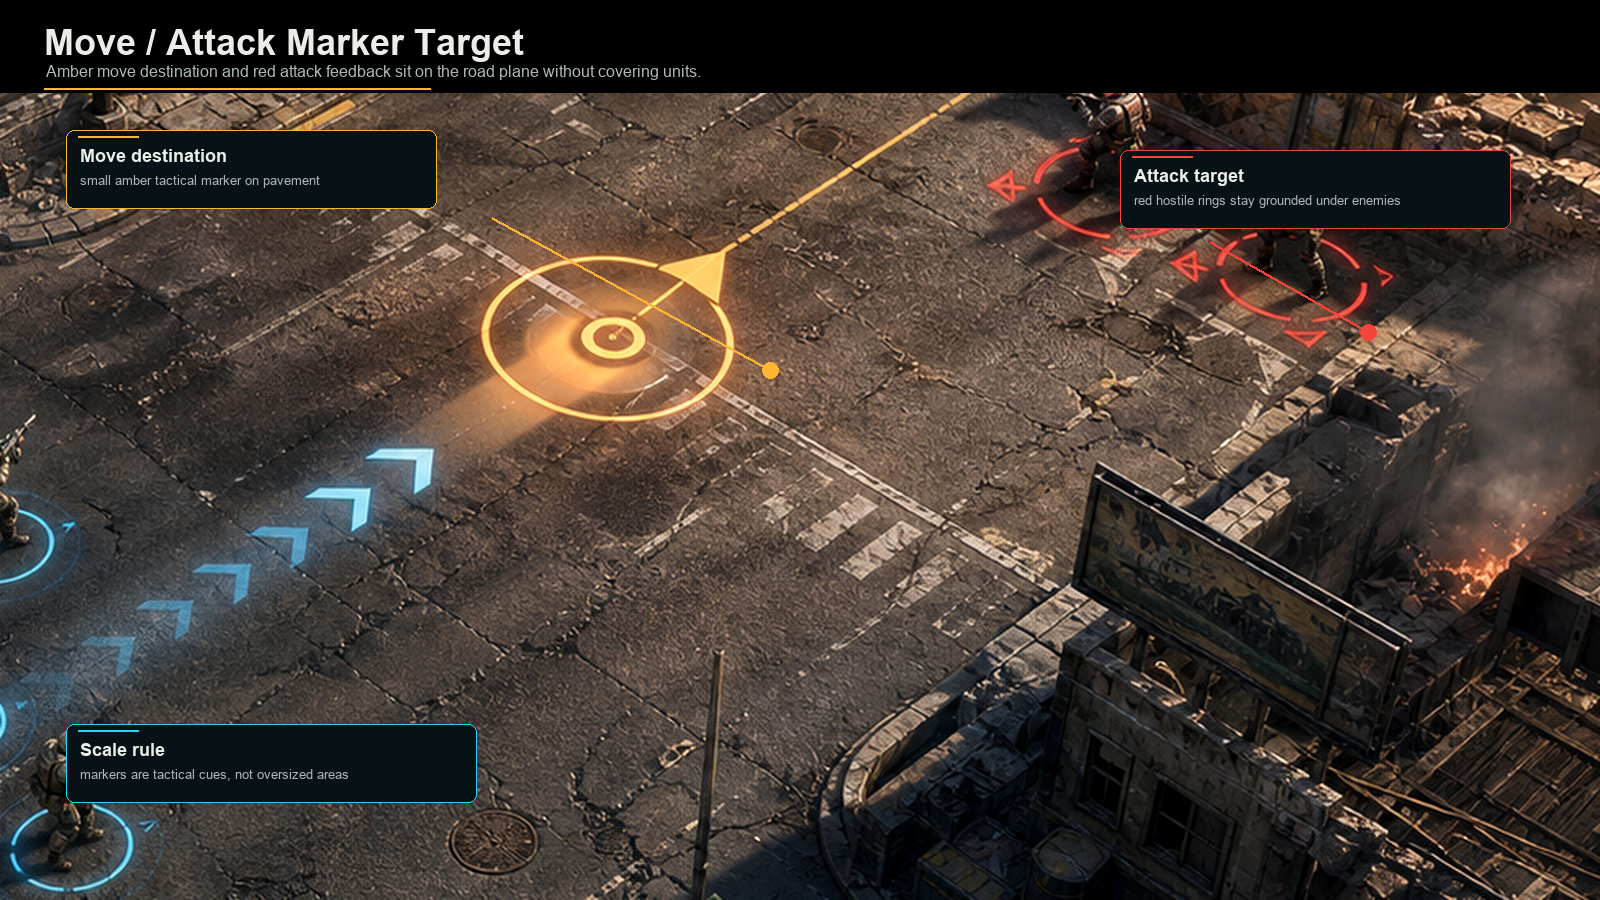
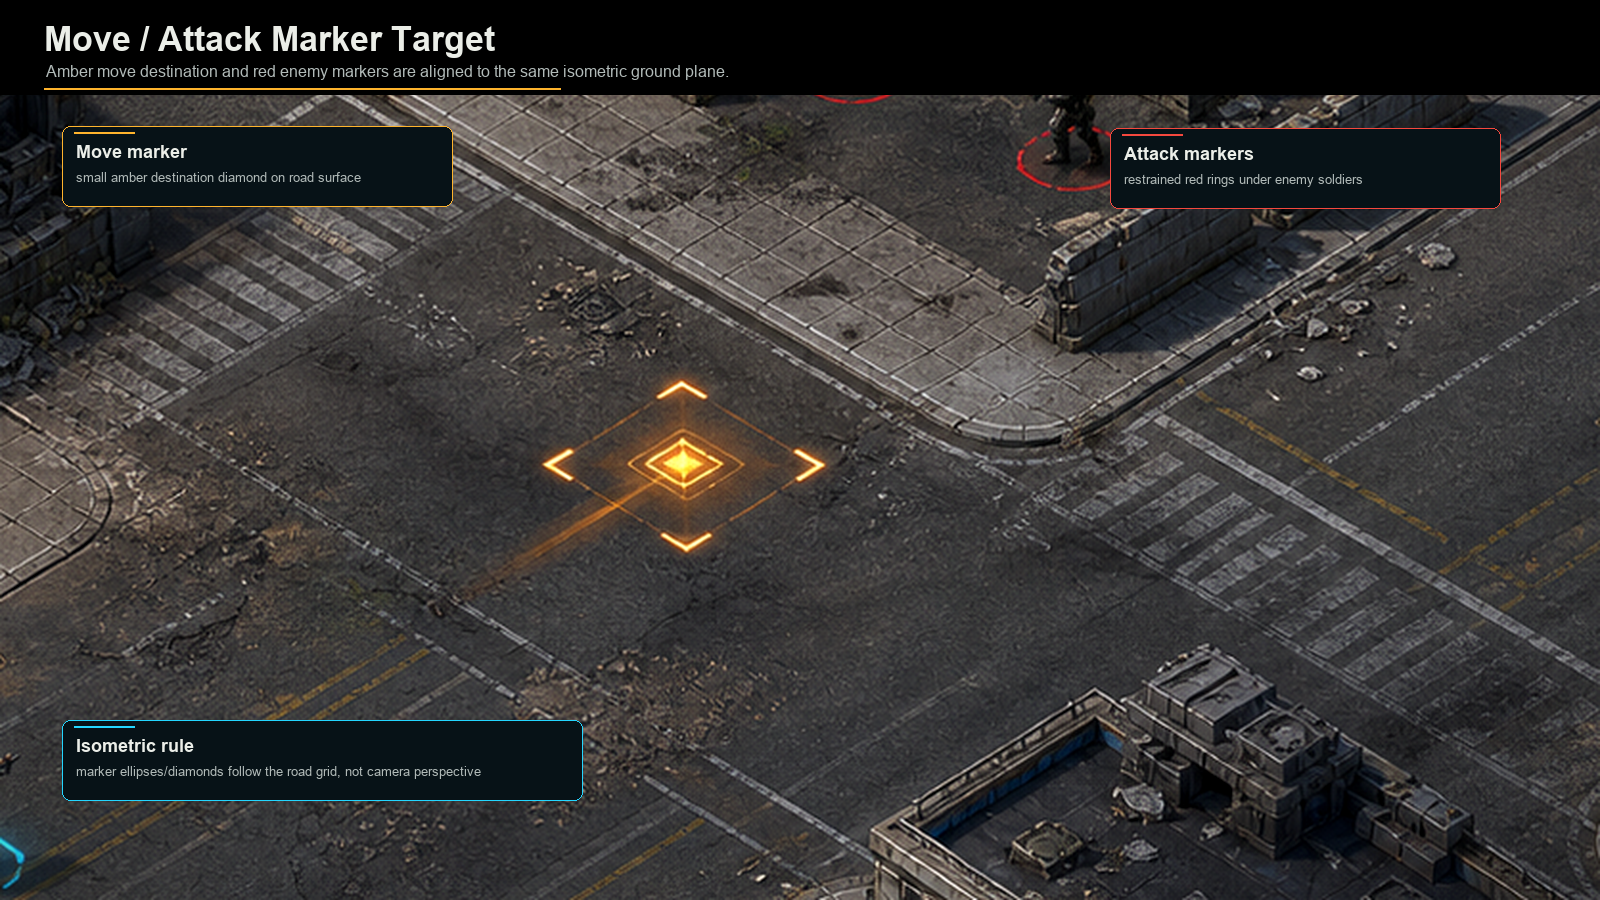
Add isometric gameplay visual target package

diff --git a/Design/AgentReports/2026-05-08_art-atlas_m01-aaa-isometric-gameplay-visual-target-package.md b/Design/AgentReports/2026-05-08_art-atlas_m01-aaa-isometric-gameplay-visual-target-package.md
@@ -1,0 +1,93 @@
+# Art/Atlas M01 AAA Isometric Gameplay Visual Target Package
+
+## Lane
+
+Art/Atlas
+
+## Task
+
+Replace the non-isometric AAA gameplay target package with a true-isometric AAA gameplay visual target package.
+
+## Files changed
+
+- `Design/VisualTargets/Gameplay/M01_SelectedReadability/M01_SelectedReadability_AAA_Isometric_AI_Source.png`
+- `Design/VisualTargets/Gameplay/M01_SelectedReadability/M01_SelectedReadability_AAA_AI_Source.png`
+- `Design/VisualTargets/Gameplay/M01_SelectedReadability/M01_SelectedReadability_Gameplay_Target.png`
+- `Design/VisualTargets/Gameplay/M01_SelectedReadability/M01_SelectedReadability_Isometric_Grid_Proof.png`
+- `Design/VisualTargets/Gameplay/M01_SelectedReadability/M01_SelectedReadability_Scale_Board.png`
+- `Design/VisualTargets/Gameplay/M01_SelectedReadability/M01_SelectedReadability_Selected_Marker_Target.png`
+- `Design/VisualTargets/Gameplay/M01_SelectedReadability/M01_SelectedReadability_Move_Attack_Marker_Target.png`
+- `Design/VisualTargets/Gameplay/M01_SelectedReadability/M01_SelectedReadability_Enemy_Readability_Target.png`
+- `Design/VisualTargets/Gameplay/M01_SelectedReadability/M01_SelectedReadability_Idle_Run_Pose_Guide.png`
+- `Design/VisualTargets/Gameplay/M01_SelectedReadability/M01_SelectedReadability_Rejected_Bad_Examples.png`
+- `Design/VisualTargets/Gameplay/M01_SelectedReadability/M01_SelectedReadability_Target_Manifest.md`
+- `Design/AgentReports/2026-05-08_art-atlas_m01-aaa-isometric-gameplay-visual-target-package.md`
+
+## Contracts touched
+
+- `Design/VisualTargets/Gameplay/M01_SelectedReadability/README.md`
+- `Design/AgentReports/2026-05-08_pm_art-atlas-non-isometric-rejection-routing.md`
+- `Design/AgentReports/2026-05-08_art-atlas_m01-aaa-gameplay-visual-target-package.md`
+
+## User-visible behavior
+
+No runtime behavior changed. This package replaces the non-isometric AAA target package with true-isometric gameplay visual targets while preserving the accepted high-quality direction.
+
+## Validation run
+
+- Read the active Art/Atlas task, PM non-isometric rejection routing, PM Art/Atlas message, user feedback gate, gameplay visual target README, and UI Visual Lock references.
+- Used the built-in image generation workflow to create a new AAA isometric RTS gameplay mockup with orthographic camera intent, parallel ground-plane axes, and no cinematic perspective convergence.
+- Copied the generated source into `Design/VisualTargets/Gameplay/M01_SelectedReadability/M01_SelectedReadability_AAA_Isometric_AI_Source.png`.
+- Rebuilt the gameplay, selected-state, move/attack, enemy readability, scale/grounding, pose/contact, rejected-case, and isometric grid proof boards from the same source.
+- Ran `identify Design/VisualTargets/Gameplay/M01_SelectedReadability/M01_SelectedReadability_*.png`.
+- Built and visually inspected `/private/tmp/m01_aaa_isometric_selected_readability_contact.png`.
+
+## Validation result
+
+Ready for PM/user approval.
+
+The replacement directly addresses the latest rejection:
+
+- Preserves the accepted AAA quality direction.
+- Uses a stricter isometric RTS camera source with road, sidewalk, wall, and building edges reading as parallel ground-plane axes.
+- Adds `M01_SelectedReadability_Isometric_Grid_Proof.png` to make the isometric check explicit.
+- Keeps soldiers consistent in style, scale, lighting, grounding, and perspective.
+- Keeps tactical markers ground-plane aligned: cyan selected contact, amber move destination, and red hostile markers.
+- Keeps bad examples compact and includes non-isometric camera as a rejected case.
+
+## QA acceptance checks
+
+- Compare future runtime captures against `M01_SelectedReadability_Gameplay_Target.png` for overall quality and composition.
+- Compare perspective against `M01_SelectedReadability_Isometric_Grid_Proof.png`: ground-plane axes should remain parallel with no vanishing point, horizon, or wide-angle convergence.
+- Confirm soldiers stay consistent in scale, lighting, perspective, and foot contact.
+- Confirm selected feedback uses subtle grounded cyan contact rings/brackets, not yellow squares or giant blobs.
+- Confirm move feedback reads as an amber ground-plane destination cue and does not cover units.
+- Confirm attack feedback reads as restrained red hostile ground-plane feedback, not floating or over-tinted marks.
+- Confirm known rejected cases stay absent: non-isometric camera, huge green marker, yellow square, squashed soldier, half underground, red sitting artifact, and mixed-size squad.
+
+## User Review Steps
+
+1. Open the seven core review PNGs in `Design/VisualTargets/Gameplay/M01_SelectedReadability/`:
+   - `M01_SelectedReadability_Gameplay_Target.png`
+   - `M01_SelectedReadability_Isometric_Grid_Proof.png`
+   - `M01_SelectedReadability_Scale_Board.png`
+   - `M01_SelectedReadability_Selected_Marker_Target.png`
+   - `M01_SelectedReadability_Move_Attack_Marker_Target.png`
+   - `M01_SelectedReadability_Enemy_Readability_Target.png`
+   - `M01_SelectedReadability_Idle_Run_Pose_Guide.png`
+2. Check whether the quality still looks AAA and whether the camera reads as true isometric gameplay: parallel road/building axes, no vanishing point, no wide-angle/cinematic perspective.
+3. Answer exactly `approve gameplay visual target package` or `reject gameplay visual target package with notes`.
+
+## Known gaps
+
+- This is still a target/reference package, not runtime implementation.
+- Downstream lanes must not treat it as the accepted visual bar until PM/user explicitly approves it.
+
+## Cross-lane impacts
+
+- Gameplay, Designer, UI, QA/HCI, and Support/FTUE remain blocked from final selected-readability approval until PM/user approves this replacement.
+- After approval, downstream runtime captures should be compared against this package.
+
+## Next recommended task
+
+PM/user should approve or reject the true-isometric gameplay visual target package with notes.

diff --git a/Design/VisualTargets/Gameplay/M01_SelectedReadability/M01_SelectedReadability_Target_Manifest.md b/Design/VisualTargets/Gameplay/M01_SelectedReadability/M01_SelectedReadability_Target_Manifest.md
@@ -5,29 +5,32 @@ Owner: Art/Atlas
 
 ## Target Files
 
-- `M01_SelectedReadability_AAA_AI_Source.png` - resized source frame from the AI-generated AAA gameplay mockup.
-- `M01_SelectedReadability_Gameplay_Target.png` - polished in-world M01 gameplay target.
+- `M01_SelectedReadability_AAA_Isometric_AI_Source.png` - resized source frame from the AI-generated true-isometric gameplay mockup.
+- `M01_SelectedReadability_AAA_AI_Source.png` - current source alias for package consumers.
+- `M01_SelectedReadability_Gameplay_Target.png` - polished in-world M01 true-isometric gameplay target.
+- `M01_SelectedReadability_Isometric_Grid_Proof.png` - isometric grid/axis proof showing parallel ground-plane axes.
 - `M01_SelectedReadability_Scale_Board.png` - scale and grounding target using believable road/building/soldier relationships.
 - `M01_SelectedReadability_Selected_Marker_Target.png` - selected-state target with consistent soldiers and cyan grounded contact rings.
 - `M01_SelectedReadability_Move_Attack_Marker_Target.png` - move and attack marker target using amber and red ground-plane tactical feedback.
 - `M01_SelectedReadability_Enemy_Readability_Target.png` - enemy readability target with restrained hostile markers and consistent lighting.
-- `M01_SelectedReadability_Idle_Run_Pose_Guide.png` - high-quality pose/contact guidance from the same gameplay mockup.
-- `M01_SelectedReadability_Rejected_Bad_Examples.png` - compact rejected-case sheet for known failure modes.
+- `M01_SelectedReadability_Idle_Run_Pose_Guide.png` - high-quality pose/contact guidance from the same true-isometric gameplay mockup.
+- `M01_SelectedReadability_Rejected_Bad_Examples.png` - compact rejected-case sheet for known failure modes, including non-isometric camera rejection.
 
 ## Source References Used
 
 - `Design/VisualLock/SCN-08_RTSBattleHUD_M01_TacticalFeedback/SCN-08_RTSBattleHUD_M01_TacticalFeedback_Landscape_Target.png`
 - `Design/VisualLockLayered/SCN-08_RTSBattleHUD/generated_one_go/layers_contact_sheet.png`
-- Built-in image generation output copied into this package as `M01_SelectedReadability_AAA_AI_Source.png`.
-- Prompt intent: AAA isometric RTS M01 selected-readability gameplay mockup with consistent soldiers, grounded selection rings, amber move marker, red hostile markers, no HUD, no text, no yellow square, no giant green marker, no buried/floating/squashed soldiers.
+- Built-in image generation output copied into this package as `M01_SelectedReadability_AAA_Isometric_AI_Source.png`.
+- Prompt intent: AAA true-isometric RTS M01 selected-readability gameplay mockup with orthographic/isometric camera feel, parallel 2:1 ground-plane axes, consistent soldiers, grounded selection rings, amber move marker, red hostile markers, no HUD, no text, no yellow square, no giant green marker, no buried/floating/squashed soldiers, and no cinematic perspective convergence.
 
 ## Acceptance Checks
 
 - Runtime capture should align to the target boards before another selected-readability approval request.
 - Unit visuals must be ECS/atlas-backed and not accepted through visible renderer-wrapper GameObjects.
+- Target/capture perspective should read as orthographic isometric: consistent parallel ground-plane axes, no vanishing point, no horizon, and no wide-angle cinematic convergence.
 - Infantry scale should stay consistent across the squad and read correctly against road lanes, sidewalks, and buildings.
 - Selected state should use subtle grounded cyan contact rings/brackets; reject yellow squares, half-buried feet, and giant selection blobs.
 - Move marker should be an amber ground-plane destination cue that does not cover units or terrain context.
 - Attack marker should use restrained red hostile ground-plane feedback around enemies, not over-tinting or floating marks.
 - Enemy readability should preserve standing silhouettes, consistent lighting, and believable perspective.
-- Bad-example cases remain rejected: huge green marker, yellow square, squashed soldier, half underground, red sitting artifact, and mixed-size squad.
+- Bad-example cases remain rejected: non-isometric camera, huge green marker, yellow square, squashed soldier, half underground, red sitting artifact, and mixed-size squad.

diff --git a/Design/AgentReports/2026-05-08_pm_art-atlas-isometric-visual-target-approval-request.md b/Design/AgentReports/2026-05-08_pm_art-atlas-isometric-visual-target-approval-request.md
@@ -1,0 +1,61 @@
+# PM Art/Atlas Isometric Visual Target Approval Request
+
+## Lane
+
+PM
+
+## Task
+
+Review the Art/Atlas true-isometric replacement gameplay visual target handoff and request user approval or rejection.
+
+## Files changed
+
+- `Design/AgentTasks/art-atlas_current.md`
+- `Design/AgentReports/2026-05-08_pm_art-atlas-isometric-visual-target-approval-request.md`
+
+## Contracts touched
+
+- `Design/AgentTasks/pm_heartbeat.md`
+- `Design/AgentTasks/art-atlas_current.md`
+- `Design/AgentReports/2026-05-08_pm_art-atlas-non-isometric-rejection-routing.md`
+- `Design/AgentReports/2026-05-08_art-atlas_m01-aaa-isometric-gameplay-visual-target-package.md`
+
+## User-visible behavior
+
+No runtime behavior changed. The project is waiting for user approval or rejection of the true-isometric AAA gameplay visual target package.
+
+## Validation run
+
+- Confirmed the expected Art/Atlas handoff exists: `Design/AgentReports/2026-05-08_art-atlas_m01-aaa-isometric-gameplay-visual-target-package.md`.
+- Checked the report includes the standard WarlineCapture handoff sections.
+- Opened representative target images for PM review:
+  - `Design/VisualTargets/Gameplay/M01_SelectedReadability/M01_SelectedReadability_Gameplay_Target.png`
+  - `Design/VisualTargets/Gameplay/M01_SelectedReadability/M01_SelectedReadability_Isometric_Grid_Proof.png`
+  - `Design/VisualTargets/Gameplay/M01_SelectedReadability/M01_SelectedReadability_Selected_Marker_Target.png`
+
+## Validation result
+
+Needs user decision.
+
+The package appears ready for review, but downstream lanes must remain blocked until the user approves it or rejects it with notes.
+
+## Known gaps
+
+- PM did not approve the package on the user's behalf.
+- Runtime implementation remains blocked until this visual target package is approved.
+
+## Cross-lane impacts
+
+- Art/Atlas is waiting on PM/user approval.
+- Gameplay, QA/HCI, Designer, UI, and Support/FTUE remain waiting until approval or rejection notes are available.
+
+## Next recommended task
+
+User should review the target images and answer `approve gameplay visual target package` or `reject gameplay visual target package with notes`.
+
+Short review steps:
+
+1. Open `Design/VisualTargets/Gameplay/M01_SelectedReadability/M01_SelectedReadability_Gameplay_Target.png`.
+2. Open `M01_SelectedReadability_Isometric_Grid_Proof.png` in the same folder.
+3. Check only two things: AAA quality is preserved, and the camera/ground grid reads as true isometric.
+4. Reply approve or reject with notes.

diff --git a/Design/AgentTasks/art-atlas_current.md b/Design/AgentTasks/art-atlas_current.md
@@ -1,8 +1,8 @@
 # Art/Atlas Current Task
 
 Date: 2026-05-08
-Status: active
-Priority: P0 regenerate AAA gameplay visual target package with true isometric perspective
+Status: waiting
+Priority: true-isometric AAA gameplay visual target package delivered; waiting on PM/user approval
 
 ## Assignment
 
@@ -23,9 +23,11 @@ User review result:
 
 Regenerate the package with the same high-quality bar, but with a true isometric gameplay perspective.
 
-New expected replacement report:
+True-isometric replacement report delivered:
 
 - `Design/AgentReports/2026-05-08_art-atlas_m01-aaa-isometric-gameplay-visual-target-package.md`
+
+PM/user approval is now required before downstream lanes move forward.
 
 Read first:
 
@@ -64,16 +66,16 @@ Read first:
 ## Waiting On
 
 Waiting on lane:
-none
+PM/user
 
 Owner of next action:
-Art/Atlas
+PM/user
 
-Can my lane still continue fallback work? no. Replace the non-isometric package first.
+Can my lane still continue fallback work? no. Wait for approval or rejection notes.
 
 ## Completion Report
 
-Write:
+Delivered:
 
 `Design/AgentReports/2026-05-08_art-atlas_m01-aaa-isometric-gameplay-visual-target-package.md`
 
